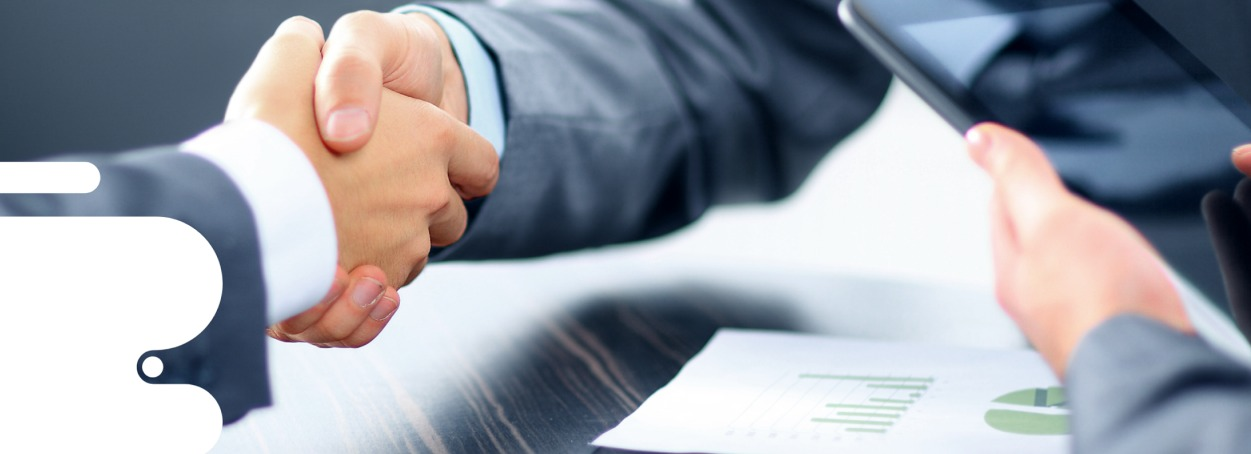
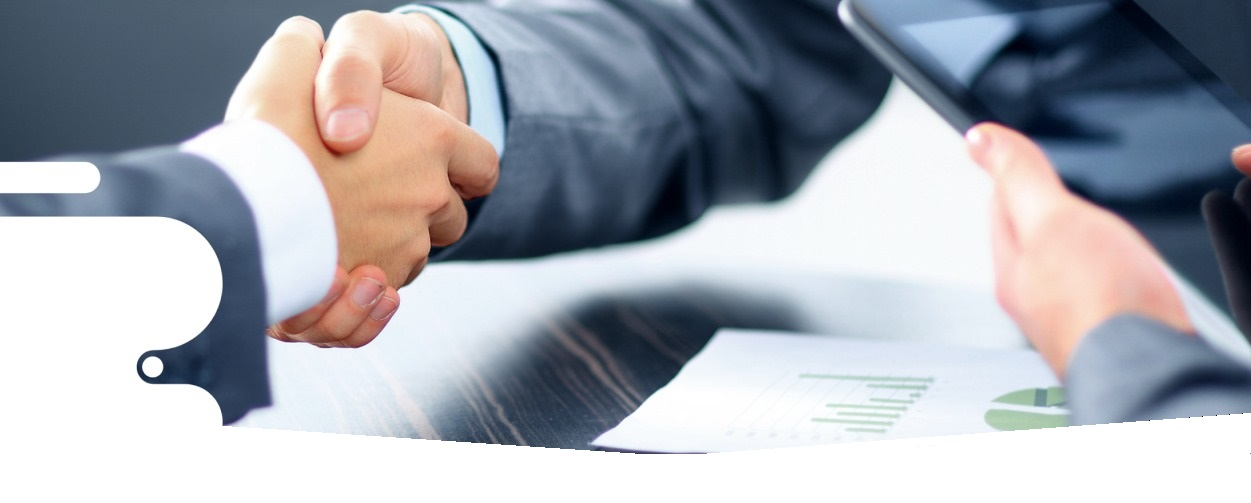
Update page our partner (Finish UI)
page our partner finish ui sementara sebelum ada tambahan

diff --git a/user_side/OurPartners.html b/user_side/OurPartners.html
@@ -47,58 +47,62 @@
     <!-- Akhir Navbar -->
 
     <!-- Awal Gambar -->
-    <div class="container">
-     <center><img src="../Assets/asset our partner/asset our (1).png" height="483.5" width="1320" alt=""></center>
+    <div class="head">
+        <img src="../Assets/asset our partner/asset our (1).png" alt="" class="center">
     </div>
     <!-- Akhir Gambar -->
 
     <!-- Awal Teks-->
-    <div class="container">
+    <div class="container-md">
         <br>
-<br>
-    <div class="teks">
-        <h2 class="text-center">Our Partners</h2>
-        <center><hr size="10px" width="50%" align="left"></center>
+        <br>
+        <div class="teks">
+            <h1 class="text-center" style="font-weight: bolder;">Our Partners</h1>
+            <center>
+                <hr class="--bs-success-bg-subtle garis">
+            </center>
+        </div>
+        </br>
+        <!-- Akhir Teks-->
+
+        <div class="img-top">
+            <div class="row">
+                <div class="col-1"></div>
+                <div class="col-2">
+                    <img src="../Assets/asset our partner/asset our (2).png" height="270"
+                            width="210" alt="" class="pln">
+                </div>
+                
+                <div class="col-8">
+                    <h2 style=" margin-left: 30px; font-weight: bolder;">PT PLN ( PERSERO ) Electricity For A Better Life </h2>
+                            <p style=" margin-left: 50px; font-size: 20px; font-weight: 100;">PT Binsar Natorang Energi has become a good partner with PT
+                                Perusahaan Listrik Negara (PLN) to distribute electricity to the
+                                people.In accordance with the Government Regulation Number
+                                18,the status of PT Perusahaan Listrik Nasional (PLN) is the Holder of
+                                the Electricity Business Authority (PKUK), which is in charge of
+                                providing electricity for the public interest.
+                            </p>
+                </div>
+            </div>
+            <div class="img-bot">
+                <div class="row">
+                    <div class="col">
+                        <img src="../Assets/asset our partner/asset our (4).png" alt="" width="350" height="350"
+                            style="margin-top: 200px; border-radius: 20px;">
+                    </div>
+                    <div class="col md-auto">
+                        <img src="../Assets/asset our partner/asset our (5).png" alt="" width="350" height="350"
+                            style="border-radius: 20px;">
+                    </div>
+                    <div class="col">
+                        <img src="../Assets/asset our partner/asset our (6).png" alt="" width="350" height="350"
+                            style="margin-top: 200px; border-radius: 20px;">
+                    </div>
+                </div>
+            </div>
+        </div>
     </div>
-</br>
-    <!-- Akhir Teks-->
 
-    <p ><img src="../Assets/asset our partner/asset our (2).png" style=”float:left” height="259" width="194" alt="">
-        <h6 class="col-12 text-center">PT Binsar Natorang Energi has become a good partner with PT 
-            <br>Perusahaan Listrik Negara (PLN) to distributeelectricity to the
-            <br>people.In accordance with the Government Regulation Number
-            <br>18,the status of PT Perusahaan Listrik Nasional (PLN) is the Holder of
-            <br>the Electricity Business Authority (PKUK), which is in charge of
-            <br>providing electricity for the public interest.
-        </h6></p>
-    
-    <!-- Awal Teks-->
-   
-<!-- <br>
-<div class="container">
-    <left><img src="../Assets/asset our partner/asset our (2).png" height="259" width="194" alt=""></left>
-   </div>
-<div class="">
-    <p align="left">
-    <h4 class="text-center fw-bold">PT PLN ( PERSERO ) Electricity For A Better Life</h4>
-</br>
-    <span class="">
-    <h6 class="col-12 text-center">PT Binsar Natorang Energi has become a good partner with PT 
-        <br>Perusahaan Listrik Negara (PLN) to distributeelectricity to the
-        <br>people.In accordance with the Government Regulation Number
-        <br>18,the status of PT Perusahaan Listrik Nasional (PLN) is the Holder of
-        <br>the Electricity Business Authority (PKUK), which is in charge of
-        <br>providing electricity for the public interest.</p>
-    </h6>
-</span>
-</div> 
--->
-
-<!-- Akhir Teks-->
-
-<!-- Awal Gambar -->
-
-<!-- Akhir Gambar-->
 
     <!-- Awal Footer -->
     <footer class="row  my-5 bg-dark-subtle">

diff --git a/user_side/Style.css b/user_side/Style.css
@@ -11,9 +11,6 @@
 .navbar{
     font-weight: bolder;
 }
-/* footer{
-    background-color: #D9D9D9;
-} */
 h2{
     font-weight: bolder;
 }
@@ -22,17 +19,34 @@ h4{
     font-weight: bolder;
 }
 
-p{
-    direction: ltr;
-    unicode-bidi: bidi-override;
-    }
-
-h6{
-        direction: ltr;
-        unicode-bidi: bidi-override;
-        }
-
-        h4{
-    direction: ltr;
-    unicode-bidi: bidi-override;
-    }
+.center {
+    display: block;
+    margin-top: 70px;
+    margin-bottom: auto;
+    margin-left: auto;
+    margin-right: auto;
+    height:483.5px;
+    width: 95%;
+}
+.garis{
+    size: 20px;
+    width: 200px;
+    border-width: 6px;
+    border-radius: 15px;
+    background-color: #3C6255;
+    color: #3C6255;
+}
+.pln{
+   margin-top: 0;
+}
+.img-bot{
+    margin-top: 100px;
+    border-radius: 20px;
+}
+.img-top{
+    display: block;
+    margin-top: 10px;
+    margin-bottom: auto;
+    margin-left: auto;
+    margin-right: auto;
+}
